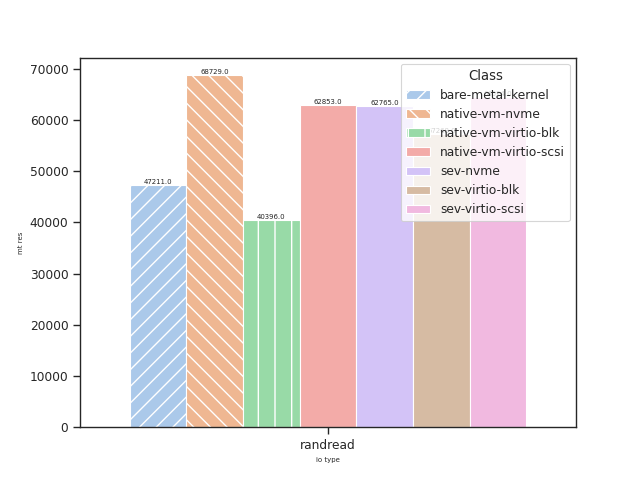
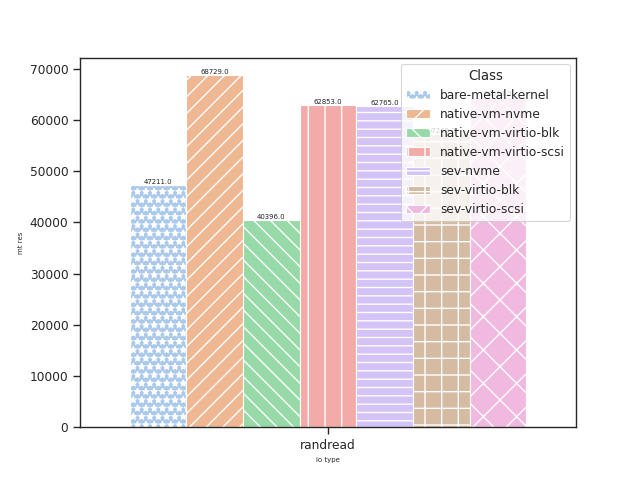
--wip-- [skip ci]

diff --git a/tools/fio-plotters/src/plot/plotter.py b/tools/fio-plotters/src/plot/plotter.py
@@ -25,7 +25,7 @@ PALETTE = sns.color_palette("pastel")
 WIDTH   = 7 # \textwidth is 7 inch
 HEIGHT  = 1.8
 
-HATCHES = ['//', '\\\\', '|']
+HATCHES = ['**', '//', '\\\\', '|', '--', '+', 'x']
 
 
 def legend_without_duplicate_labels(ax):
